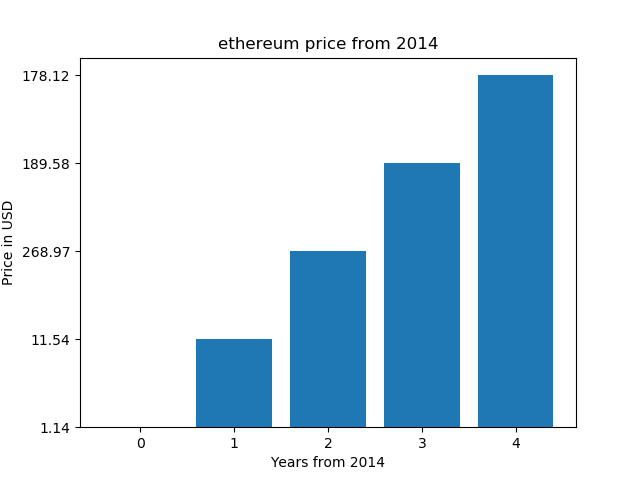
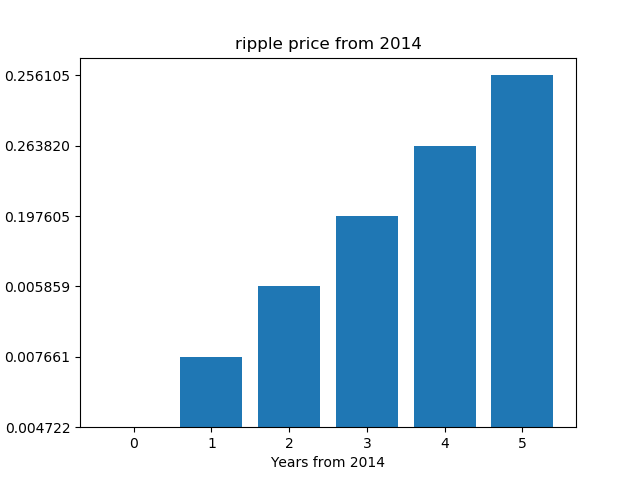
first commit

diff --git a/example.py b/example.py
@@ -10,7 +10,7 @@ from time import gmtime, strftime
 import matplotlib.pyplot as plt
 
 enddate = strftime("%Y%m%d", gmtime())
-r  = requests.get("https://coinmarketcap.com/currencies/ethereum/historical-data/?start=20140101&end={0}".format(enddate))
+r  = requests.get("https://coinmarketcap.com/currencies/ripple/historical-data/?start=20140101&end={0}".format(enddate))
 data = r.text
 
 soup = BeautifulSoup(data, "html.parser")
@@ -37,7 +37,7 @@ print(prices)
 
 x = list(range(0, len(prices)))
 
-plt.title('ethereum price from 2014')
+plt.title('ripple price from 2014')
 plt.ylabel('Price in USD')
 plt.xlabel('Years from 2014')
 plt.bar(x, prices)

diff --git a/README.md b/README.md
@@ -1,6 +1,6 @@
-# ethereum price chart 
+# ripple price chart 
 
-ethereum price chart (matplotlib, python)
+ripple price chart (matplotlib, python)
 
 https://pythonprogramminglanguage.com
 
